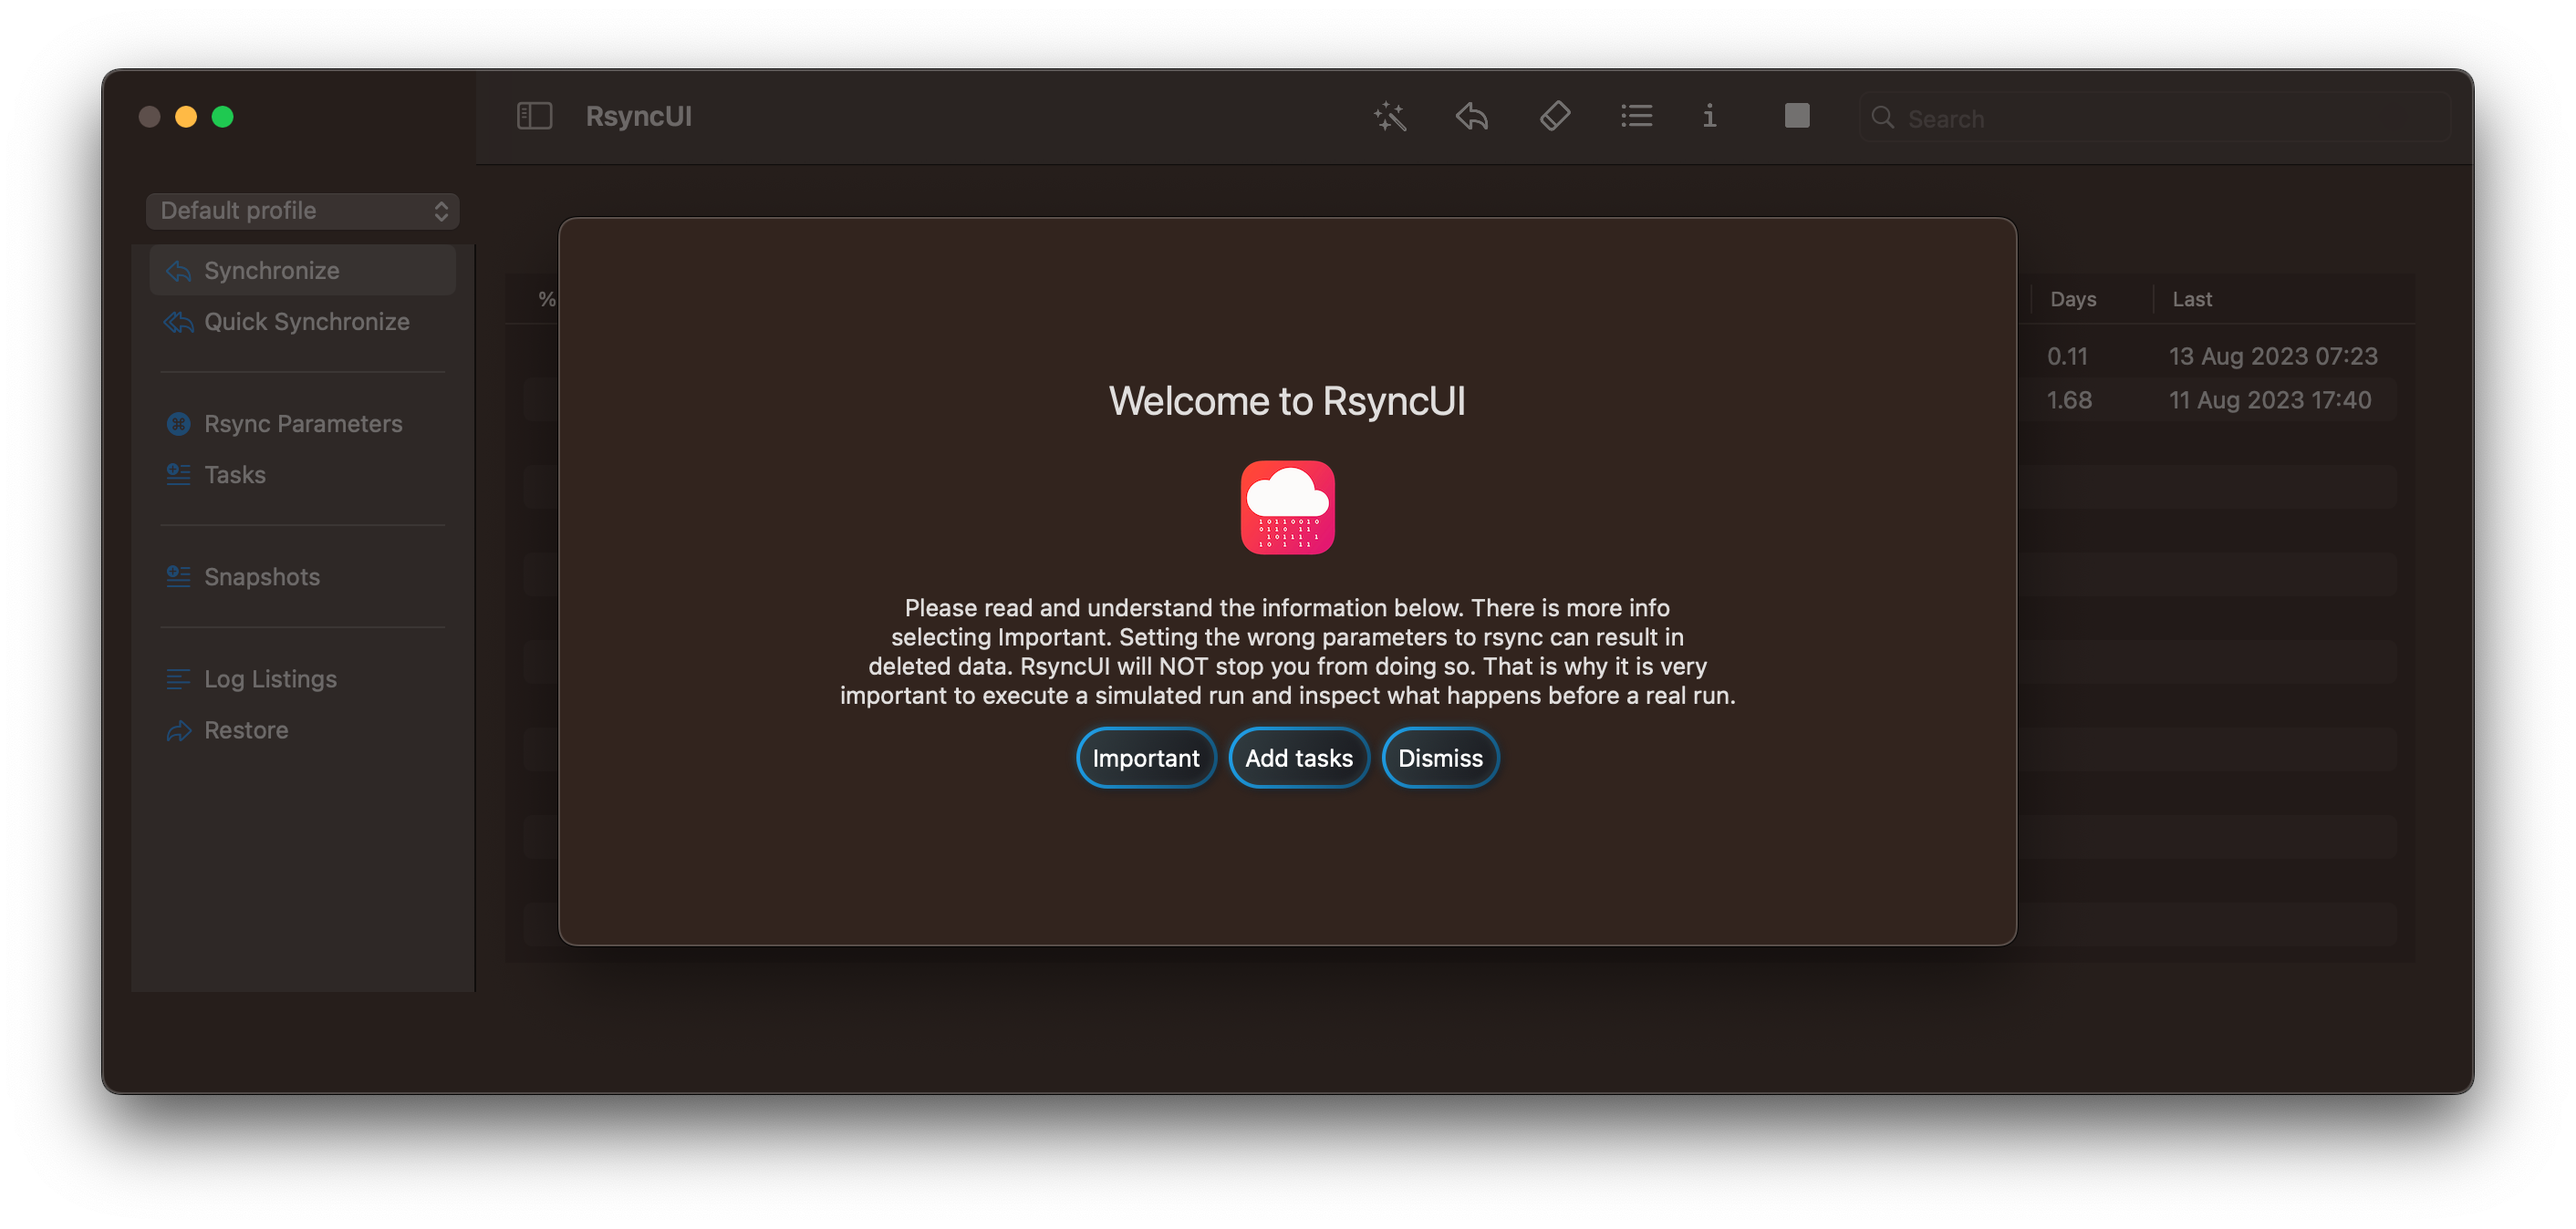
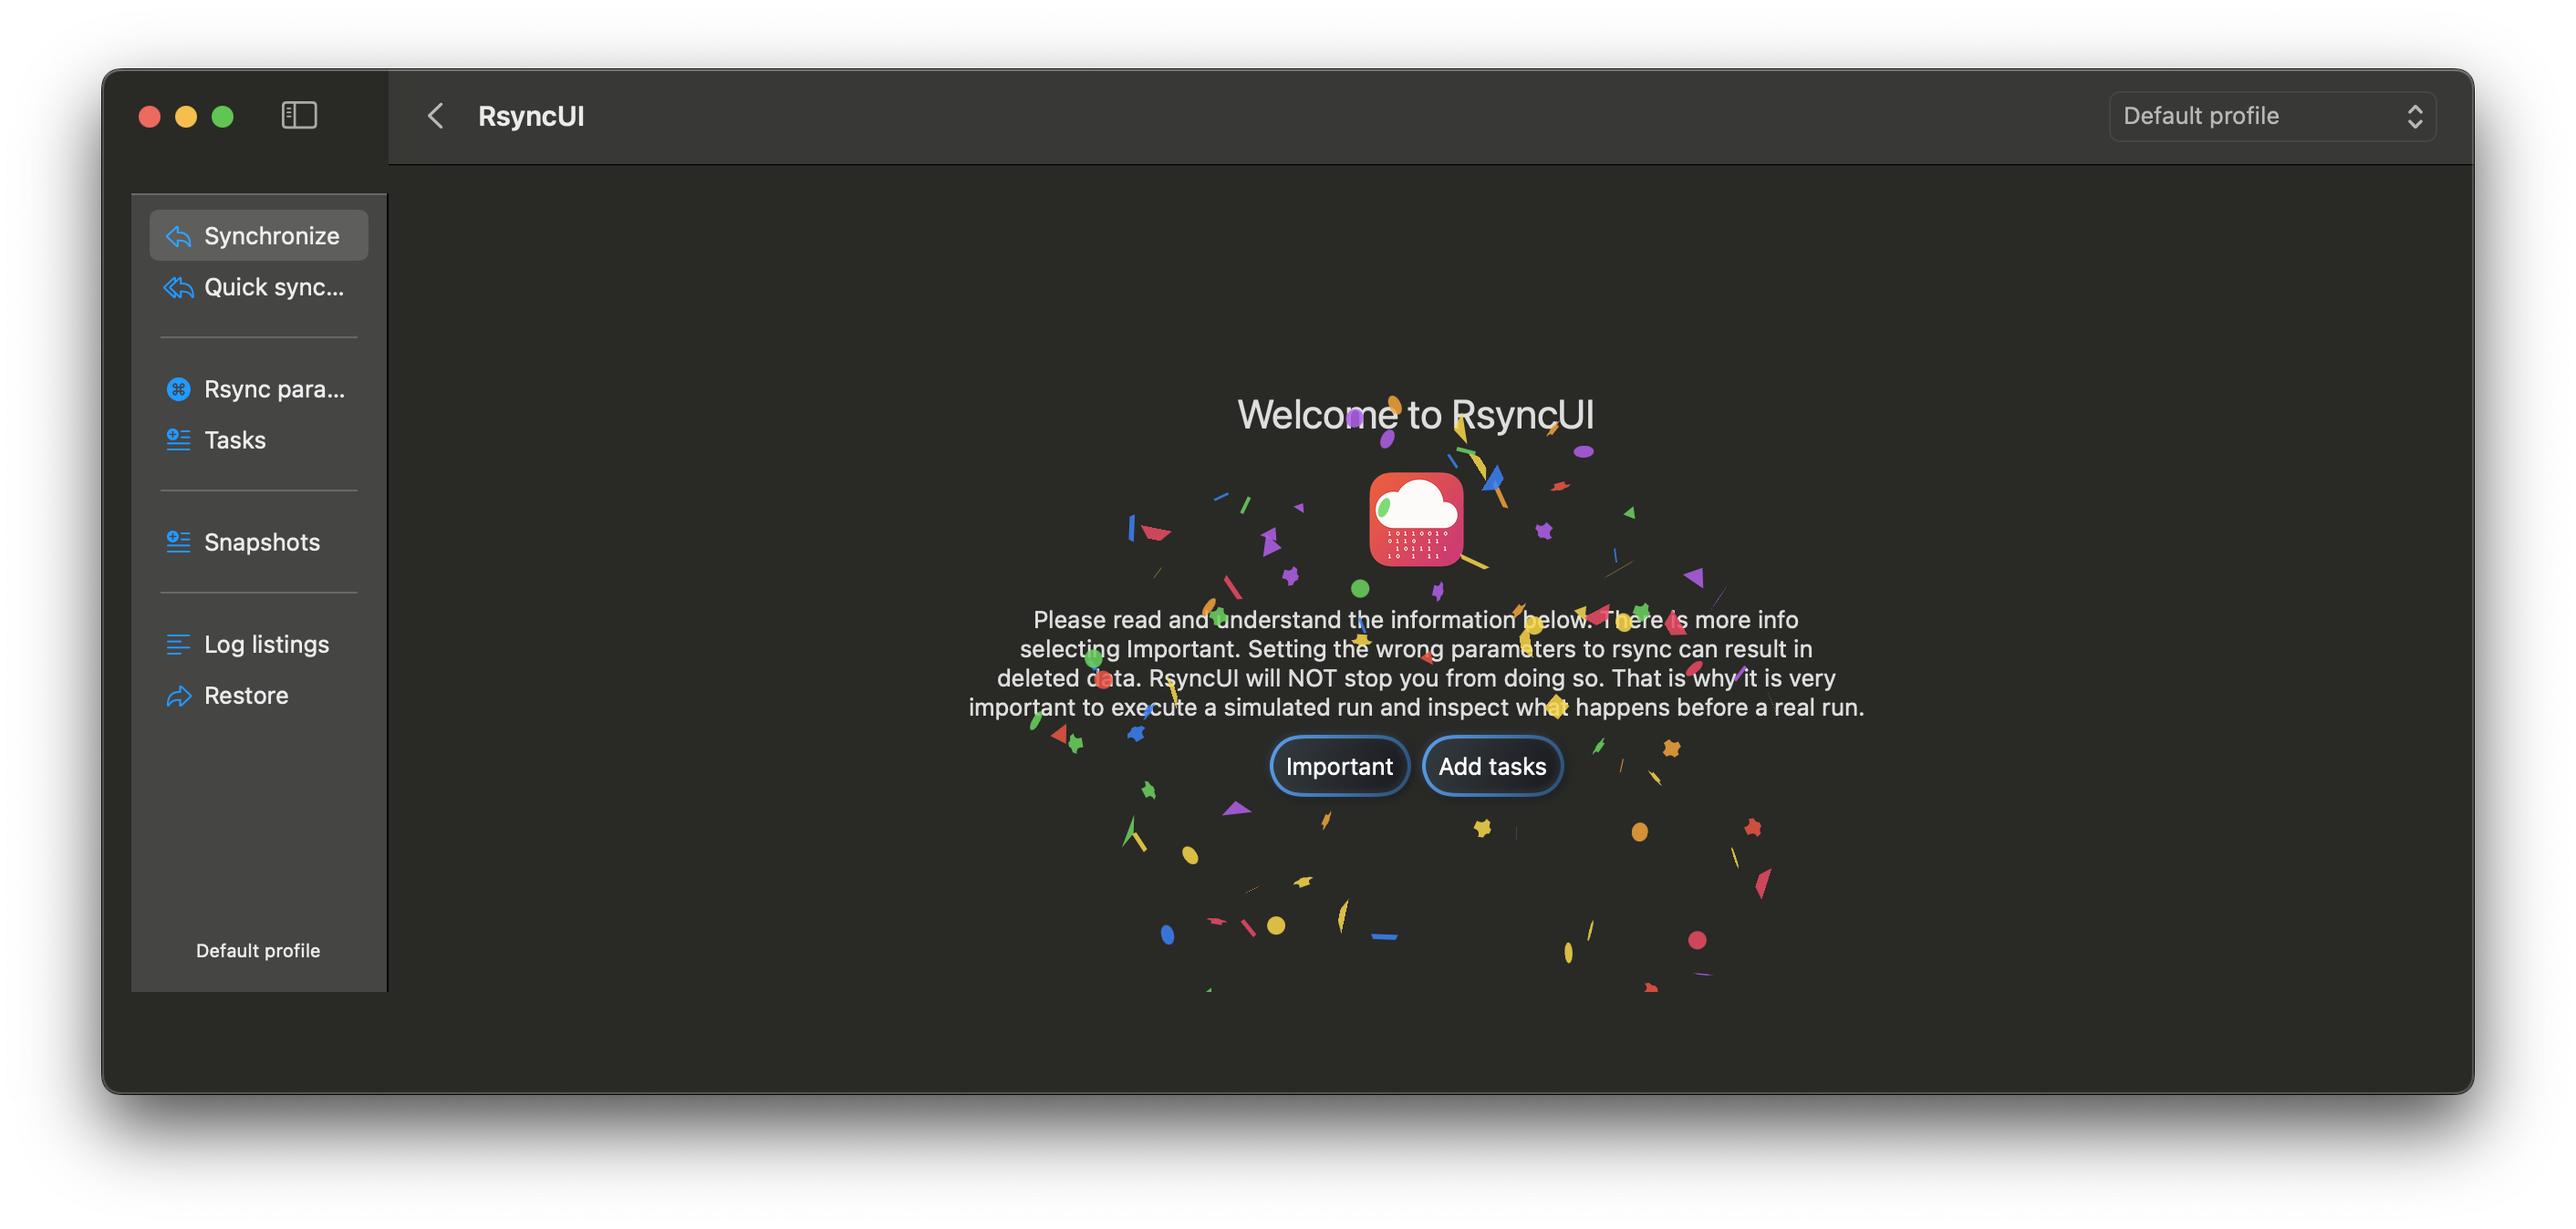
Update

diff --git a/content/post/Navstack.md b/content/post/Navstack.md
@@ -1,26 +1,22 @@
 +++
 author = "Thomas Evensen"
 date = "2023-11-10"
-title =  "What is NavigationStack?"
+title =  "NavigationStack"
 tags = ["navigationstack"]
 categories = ["general information"]
 lastmod = "2023-11-12"
 +++
-There are several methods for navigation within SwiftUI, and one method is utilizing `NavigationStack`: "*A view that displays a root view and enables you to present additional views over the root view*". 
+Apple documents `NavigationStack` as: "*A view that displays a root view and enables you to present additional views over the root view*".  The root view is the tasks view, and the all other views like estimating details, execution of tasks and so on will be presented ontop of the root view. No more pop up views and I think the presentation of the other views connected to execution of tasks will be smoother and better. 
 
-Enable using `NavigationStack` by switch on in user settings, save and restart RsyncUI. Disable it by switch off, save and restart.
-
-The root view is the tasks view, and the all other views like estimating details, execution of tasks and so on will be presented ontop of the root view. No more pop up views and I think the presentation of the other views connected to execution of tasks will be smoother and better.   The user might choose to use the new  `NavigationStack` or stay by default. 
-
-Using `NavigationStack` is only enabled on macOS 14 due to use of the new `Observable` macro which require macOS 14.
+Using `NavigationStack` is only enabled on **macOS 14** due to use of the new `Observable` macro which require macOS 14. The following is my procedure for synchronizing data to my backup server. And all tasks are executed by shortcuts on the keyboard.
 
 ## Synchronize data by shortcuts
 
-The synchronization of data is not changed much after introduction of navigation by NavigationStack. By using NavigationStack there are no popups or sheetviews. The following is my procedure for synchronizing data to my backup server. And all tasks are executed by shortcuts on the keyboard. 
+The synchronization of data is not changed much after introduction of navigation by NavigationStack. By using NavigationStack there are no popups or sheetviews. 
 
 ### Estimate  `⌘E`
 
-New task are added, for demo purpose only. After adding tasks the main or root view looks like this.  Either by shortcut `⌘E` or by selecting the toolbar "Wand and Stars" starts the estimate.
+After adding tasks the main or root view looks like this.  Either by shortcut `⌘E` or by selecting the toolbar "Wand and Stars" starts the estimate.
 
 {{< figure src="/images/navstack/addtasks.png" alt="" position="center" style="border-radius: 8px;" >}}
 
@@ -55,14 +51,10 @@ And after synchronization of data the tasks or root view is updated.
 
 {{< figure src="/images/navstack/tasks.png" alt="" position="center" style="border-radius: 8px;" >}}
 
-### Enable `NavigationStack` and confetti
+### Enable `NavigationStack`
 
-Enable or disable `NavigationStack`.
+Enable using `NavigationStack` by switch on in user settings, save and restart RsyncUI. Disable by switch off, save and restart.
 
 {{< figure src="/images/navstack/settings.png" alt="" position="center" style="border-radius: 8px;" >}}
-
-First time info for new users of RsyncUI, with confetti.
-
-{{< figure src="/images/navstack/confetti.png" alt="" position="center" style="border-radius: 8px;" >}}
 
 

diff --git a/content/post/RsyncUIdocs.md b/content/post/RsyncUIdocs.md
@@ -32,6 +32,10 @@ The first time RsyncUI starts, it presents a link to [important](/post/important
 
 RsyncUI can be used in parallel with RsyncOSX. The catalog for storing configuration files is `$HOME/.rsyncosx/macserialnumber/`. RsyncUI and RsyncOSX do not share user settings, e.g, like enabling version 3.x of rsync, has to be set in both apps.
 
+## Navigation
+
+There are two ways for information and navigation within RsyncUI, either by sheets or by Navigation Stack. Default for new users is by sheets and Navigation Stack might be switch on in user settings. See more info about [NavigationStack](/post/navstack/).
+
 ## Aborting a task
 
 Please be aware it is an external task not controlled by RsyncUI, which executes the command line tool `rsync`. RsyncUI is monitoring the task for progress and termination. The user can at any time abort a task. Please let the abort to finish and cleanup properly before starting a new task. It might take a few seconds. If not, the apps might become unresponsive.
